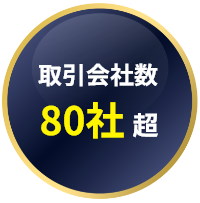
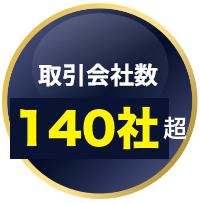
サービスページ: 取引会社数を80社超から140社超に更新

Changed region(s): [[0.03, 0.4729, 0.93, 0.798]]

diff --git a/page-service.php b/page-service.php
@@ -28,7 +28,7 @@
     </div>
     <div class="l-service__img">
       <picture class="image">
-        <img src="<?php echo get_template_directory_uri()?>/img/service/service01.png" alt="取引会社数 80社超">
+        <img src="<?php echo get_template_directory_uri()?>/img/service/service01.png" alt="取引会社数 140社超">
       </picture>
       <picture class="image">
         <img src="<?php echo get_template_directory_uri()?>/img/service/service02.png" alt="平均継続年数 7年超">
